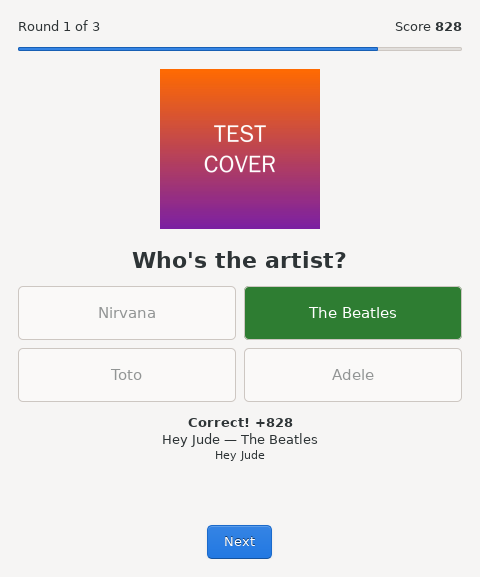
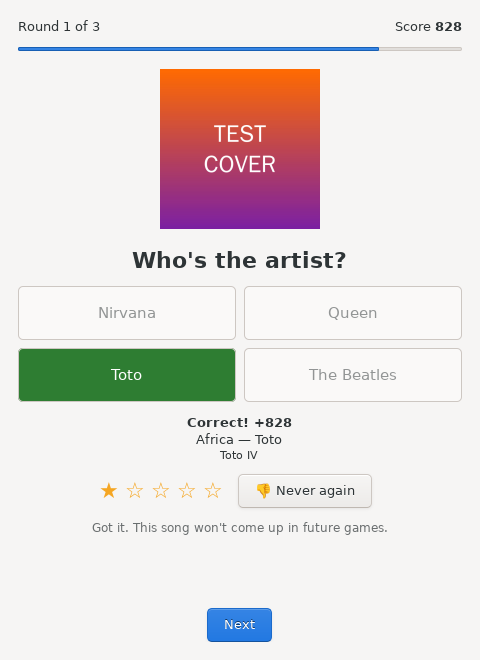
Name That Tune: rate songs and skip low-rated ones
After each round you can give the song 1-5 stars or press "Never
again" (1 star). Ratings are stored as normal Rhythmbox ratings, and
the quiz leaves out songs rated at or below a threshold chosen on the
start screen (default: 2 stars or less; unrated songs are always
included). The threshold is remembered between sessions.

Claude-Session: https://claude.ai/code/session_01QgXWrFVDKvrBibb1WcZf2G

diff --git a/rhythmbox-plugins/name-that-tune/namethattune.py b/rhythmbox-plugins/name-that-tune/namethattune.py
@@ -5,6 +5,8 @@
 #
 # SPDX-License-Identifier: GPL-3.0-or-later
 
+import json
+import os
 import time
 
 import gi
@@ -22,12 +24,20 @@ ACTION = "name-that-tune"
 # Plugins that would announce the song and spoil the answer.
 SPOILER_PLUGINS = ("notification",)
 TICK_MS = 100
+SKIP_OPTIONS = (
+    (0, "Don't skip any songs"),
+    (1, "Skip songs rated ★"),
+    (2, "Skip songs rated ★★ or less"),
+    (3, "Skip songs rated ★★★ or less"),
+)
 
 CSS = b"""
 .ntt-title { font-size: 22px; font-weight: bold; }
 .ntt-big { font-size: 36px; font-weight: bold; }
 .ntt-dim { opacity: 0.7; }
 .ntt-choice { padding: 14px 10px; font-size: 15px; }
+.ntt-star { font-size: 22px; padding: 0 2px; min-width: 0; color: #f5a623; }
+.ntt-note { font-size: 12px; opacity: 0.7; }
 .ntt-correct, .ntt-correct:disabled {
     background-image: none; background-color: #2e7d32; color: #ffffff;
 }
@@ -35,6 +45,32 @@ CSS = b"""
     background-image: none; background-color: #c62828; color: #ffffff;
 }
 """
+
+
+def stars(rating):
+    rating = int(round(rating or 0))
+    return "★" * rating + "☆" * (5 - rating) if rating else _("not rated")
+
+
+def settings_path():
+    return os.path.join(RB.user_data_dir(), "name-that-tune.json")
+
+
+def load_settings():
+    try:
+        with open(settings_path(), encoding="utf-8") as f:
+            return json.load(f)
+    except (OSError, ValueError):
+        return {}
+
+
+def save_settings(settings):
+    try:
+        os.makedirs(os.path.dirname(settings_path()), exist_ok=True)
+        with open(settings_path(), "w", encoding="utf-8") as f:
+            json.dump(settings, f)
+    except OSError:
+        pass
 
 
 def entry_location(entry):
@@ -46,6 +82,9 @@ class QuizWindow(Gtk.Window):
         Gtk.Window.__init__(self, title=_("Name That Tune"))
         self.shell = shell
         self.player = shell.props.shell_player
+        self.db = shell.props.db
+        self.settings = load_settings()
+        self.rated_entry = None
         self.game = None
         self.timer_id = 0
         self.seek_id = 0
@@ -54,7 +93,7 @@ class QuizWindow(Gtk.Window):
         self.unloaded_plugins = []
         self.art_store = RB.ExtDB(name="album-art")
 
-        self.set_default_size(480, 560)
+        self.set_default_size(480, 660)
         self.set_border_width(18)
         self.set_transient_for(shell.props.window)
 
@@ -103,6 +142,18 @@ class QuizWindow(Gtk.Window):
         row.pack_start(self.rounds_spin, False, False, 0)
         box.pack_start(row, False, False, 0)
 
+        self.skip_combo = Gtk.ComboBoxText(halign=Gtk.Align.CENTER)
+        for value, label in SKIP_OPTIONS:
+            self.skip_combo.append(str(value), _(label))
+        self.skip_combo.set_active_id(str(self.settings.get("skip_rating", ntt_game.SKIP_RATING)))
+        if self.skip_combo.get_active_id() is None:
+            self.skip_combo.set_active_id(str(ntt_game.SKIP_RATING))
+        self.skip_combo.connect("changed", self._on_skip_changed)
+        box.pack_start(self.skip_combo, False, False, 0)
+        box.pack_start(self._label(
+            _("Rate songs after each round to keep the ones you don't like out of future games."),
+            "ntt-note"), False, False, 0)
+
         self.start_error = self._label("", "ntt-dim")
         box.pack_start(self.start_error, False, False, 0)
 
@@ -150,6 +201,23 @@ class QuizWindow(Gtk.Window):
         self.reveal_label = self._label("")
         box.pack_start(self.reveal_label, False, False, 0)
 
+        self.rating_box = Gtk.Box(spacing=0, halign=Gtk.Align.CENTER)
+        self.star_buttons = []
+        for n in range(1, 6):
+            button = Gtk.Button(label="☆", relief=Gtk.ReliefStyle.NONE)
+            button.get_style_context().add_class("ntt-star")
+            button.set_tooltip_text(gettext.ngettext("%d star", "%d stars", n) % n)
+            button.connect("clicked", lambda b, n=n: self._set_rating(n))
+            self.rating_box.pack_start(button, False, False, 0)
+            self.star_buttons.append(button)
+        never = Gtk.Button(label=_("👎 Never again"))
+        never.set_tooltip_text(_("Rate 1 star so it's left out of future games"))
+        never.connect("clicked", lambda b: self._set_rating(1))
+        self.rating_box.pack_start(never, False, False, 12)
+        box.pack_start(self.rating_box, False, False, 0)
+        self.rating_note = self._label("", "ntt-note")
+        box.pack_start(self.rating_note, False, False, 0)
+
         actions = Gtk.Box(spacing=8, halign=Gtk.Align.CENTER)
         self.replay_button = Gtk.Button(label=_("Replay snippet"))
         self.replay_button.connect("clicked", lambda b: self._seek_to_start())
@@ -196,14 +264,16 @@ class QuizWindow(Gtk.Window):
                 entry.get_string(RB.RhythmDBPropType.ARTIST),
                 entry.get_string(RB.RhythmDBPropType.ALBUM),
                 entry.get_ulong(RB.RhythmDBPropType.DURATION),
-                entry))
+                entry,
+                entry.get_double(RB.RhythmDBPropType.RATING)))
         return tracks
 
     def start_game(self):
         try:
             self.game = Game(self._library_tracks(),
                              rounds=int(self.rounds_spin.get_value()),
-                             unknown=_("Unknown"))
+                             unknown=_("Unknown"),
+                             skip_rating=self._skip_rating())
         except ValueError as e:
             self.start_error.set_text(str(e))
             self.stack.set_visible_child_name("start")
@@ -232,6 +302,9 @@ class QuizWindow(Gtk.Window):
         self.art.set_from_icon_name("dialog-question", Gtk.IconSize.DIALOG)
         self.art.set_pixel_size(128)
         self.reveal_label.set_text("")
+        self.rating_box.set_visible(False)
+        self.rating_note.set_text("")
+        self.rated_entry = None
         self.next_button.set_visible(False)
         self.replay_button.set_visible(True)
         self.progress.set_fraction(1.0)
@@ -325,6 +398,9 @@ class QuizWindow(Gtk.Window):
             GLib.markup_escape_text(s) for s in (verdict, t.title, t.artist, t.album)))
         self._update_score()
         self._load_art(t.ref)
+        self.rated_entry = t.ref
+        self._show_rating()
+        self.rating_box.set_visible(True)
 
         self.replay_button.set_visible(False)
         self.next_button.set_label(
@@ -341,10 +417,38 @@ class QuizWindow(Gtk.Window):
         lines = []
         for q, choice, correct, points in g.history:
             mark = "✓" if correct else "✗"
-            lines.append("%s  %s — %s" % (mark, q.track.title, q.track.artist))
+            rating = q.track.ref.get_double(RB.RhythmDBPropType.RATING)
+            lines.append("%s  %s — %s   %s" % (mark, q.track.title, q.track.artist, stars(rating)))
         self.final_list.set_text("\n".join(lines))
         self.stack.set_visible_child_name("results")
         self._restore_player()
+
+    def _skip_rating(self):
+        return int(self.skip_combo.get_active_id() or 0)
+
+    def _on_skip_changed(self, combo):
+        self.settings["skip_rating"] = self._skip_rating()
+        save_settings(self.settings)
+
+    def _set_rating(self, rating):
+        """Save a star rating to the Rhythmbox library."""
+        entry = self.rated_entry
+        if entry is None:
+            return
+        self.db.entry_set(entry, RB.RhythmDBPropType.RATING, float(rating))
+        self.db.commit()
+        self._show_rating()
+
+    def _show_rating(self):
+        rating = int(round(self.rated_entry.get_double(RB.RhythmDBPropType.RATING)))
+        for n, button in enumerate(self.star_buttons, 1):
+            button.set_label("★" if n <= rating else "☆")
+        if ntt_game.is_skipped(rating, self._skip_rating()):
+            self.rating_note.set_text(_("Got it. This song won't come up in future games."))
+        elif rating:
+            self.rating_note.set_text(_("Saved to your Rhythmbox library."))
+        else:
+            self.rating_note.set_text(_("Rate this song?"))
 
     def _update_score(self):
         self.score_label.set_markup(_("Score <b>%d</b>") % self.game.score)

diff --git a/rhythmbox-plugins/name-that-tune/ntt_game.py b/rhythmbox-plugins/name-that-tune/ntt_game.py
@@ -13,9 +13,12 @@ MAX_POINTS = 1000
 MIN_POINTS = 100
 CHOICES = 4
 MIN_TRACK_SECONDS = 30
+# Songs rated this many stars or fewer are left out (0 = unrated, never skipped).
+SKIP_RATING = 2
 
 # ref is whatever the caller needs to play the track (a RhythmDBEntry).
-Track = namedtuple("Track", "title artist album duration ref")
+# rating is Rhythmbox's 0-5 stars, where 0 means not rated yet.
+Track = namedtuple("Track", "title artist album duration ref rating", defaults=(0,))
 Question = namedtuple("Question", "track kind choices answer start")
 
 KINDS = ("title", "artist")
@@ -25,13 +28,19 @@ def _norm(text):
     return " ".join(text.casefold().split())
 
 
-def usable_tracks(tracks, unknown="Unknown"):
-    """Drop tracks that are too short or are missing a title or artist."""
+def is_skipped(rating, skip_rating=SKIP_RATING):
+    """True for songs you've rated low. Unrated songs are never skipped."""
+    return 0 < round(rating or 0) <= skip_rating
+
+
+def usable_tracks(tracks, unknown="Unknown", skip_rating=SKIP_RATING):
+    """Drop tracks that are too short, rated low, or missing a title or artist."""
     bad = {"", _norm(unknown)}
     return [t for t in tracks
             if _norm(t.title or "") not in bad
             and _norm(t.artist or "") not in bad
-            and (t.duration or 0) >= MIN_TRACK_SECONDS]
+            and (t.duration or 0) >= MIN_TRACK_SECONDS
+            and not is_skipped(t.rating, skip_rating)]
 
 
 def distinct_values(tracks, kind):
@@ -78,14 +87,20 @@ def build_question(tracks, track, kind, rng=random):
 
 
 class Game:
-    def __init__(self, tracks, rounds=ROUNDS, unknown="Unknown", rng=None):
+    def __init__(self, tracks, rounds=ROUNDS, unknown="Unknown", rng=None,
+                 skip_rating=SKIP_RATING):
         self.rng = rng or random.Random()
-        self.tracks = usable_tracks(tracks, unknown)
+        self.skip_rating = skip_rating
+        self.tracks = usable_tracks(tracks, unknown, skip_rating)
+        self.skipped = sum(1 for t in tracks if is_skipped(t.rating, skip_rating))
         self.kinds = playable_kinds(self.tracks)
         if not self.kinds:
-            raise ValueError(
-                "Your library needs at least %d songs with different titles "
-                "or artists to play." % CHOICES)
+            message = ("Your library needs at least %d songs with different "
+                       "titles or artists to play." % CHOICES)
+            if self.skipped:
+                message += (" %d low-rated songs are being skipped; try "
+                            "skipping fewer." % self.skipped)
+            raise ValueError(message)
         self.rounds = min(rounds, len(self.tracks))
         self.round = 0
         self.score = 0

diff --git a/rhythmbox-plugins/tests/test_logic.py b/rhythmbox-plugins/tests/test_logic.py
@@ -87,6 +87,30 @@ class GameTests(unittest.TestCase):
         game.next_question()
         self.assertEqual(game.answer(None, 15), (False, 0))
 
+    def test_low_rated_songs_are_skipped(self):
+        tracks = [t._replace(rating=r) for t, r in zip(library(), [0, 1, 2, 3, 4, 5] * 2)]
+        kept = {t.ref for t in ntt_game.usable_tracks(tracks)}
+        self.assertEqual(kept, {t.ref for t in tracks if t.rating in (0, 3, 4, 5)})
+        # 0 turns skipping off; a higher threshold skips more.
+        self.assertEqual(len(ntt_game.usable_tracks(tracks, skip_rating=0)), 12)
+        self.assertEqual(len(ntt_game.usable_tracks(tracks, skip_rating=3)), 6)
+
+    def test_skipped_songs_never_asked(self):
+        tracks = [t._replace(rating=1 if t.ref < 4 else 0) for t in library()]
+        game = Game(tracks, rounds=8, rng=random.Random(5))
+        self.assertEqual(game.skipped, 4)
+        asked = set()
+        while game.next_question():
+            asked.add(game.question.track.ref)
+            self.assertNotIn(game.question.answer, {"Song 0", "Song 1", "Song 2", "Song 3"} if game.question.kind == "title" else set())
+            game.answer(None, 15)
+        self.assertEqual(asked, set(range(4, 12)))
+
+    def test_error_mentions_skipped_songs(self):
+        tracks = [t._replace(rating=1) for t in library()]
+        with self.assertRaisesRegex(ValueError, "12 low-rated"):
+            Game(tracks)
+
     def test_rounds_capped_by_library_size(self):
         self.assertEqual(Game(library(6), rounds=10).rounds, 6)
 

diff --git a/rhythmbox-plugins/README.md b/rhythmbox-plugins/README.md
@@ -12,6 +12,13 @@ from four choices.
 - Faster answers score more (1000 down to 100 points), and a streak adds a bonus.
 - **Replay snippet** rewinds the clip, but the clock keeps running.
 - After you answer, it shows the song, album and cover art.
+- **Rate songs so bad ones stop coming up.** After each round, give the song
+  1–5 stars or press **👎 Never again** (which sets 1 star). The start screen
+  has a **Skip songs rated…** setting, which defaults to skipping songs with
+  2 stars or less. Unrated songs are always included.
+- Ratings are saved as normal Rhythmbox star ratings, so they also show in
+  the library's Rating column. Rhythmbox's own **Random by rating** play order
+  uses them too, so low-rated songs come up less in everyday listening.
 - To keep the answer hidden, it minimizes the main Rhythmbox window and pauses
   the Notification plugin's song popups during the game.
 - When the game ends, whatever you were listening to resumes where it left off.
